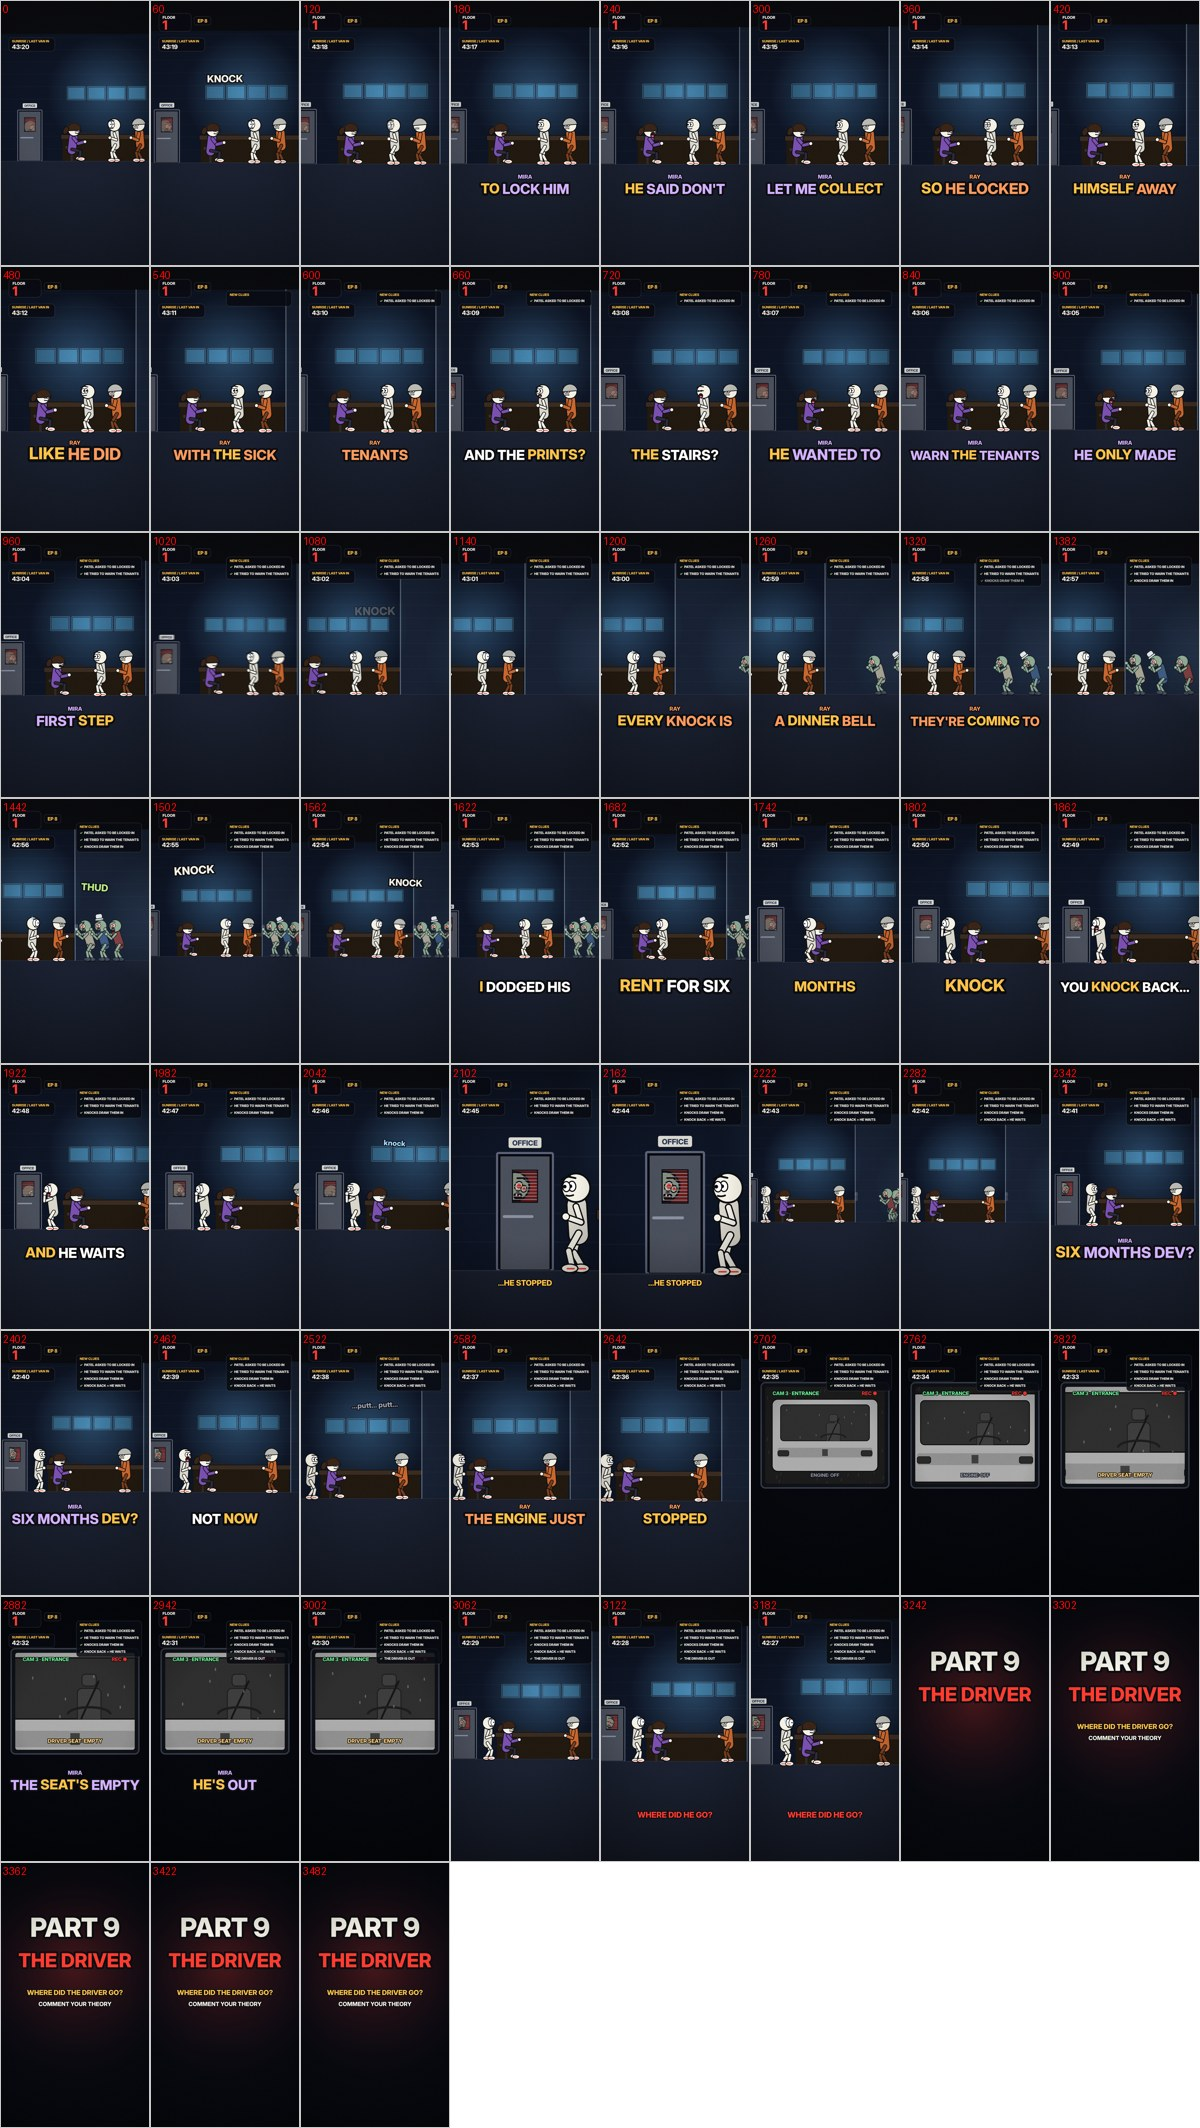
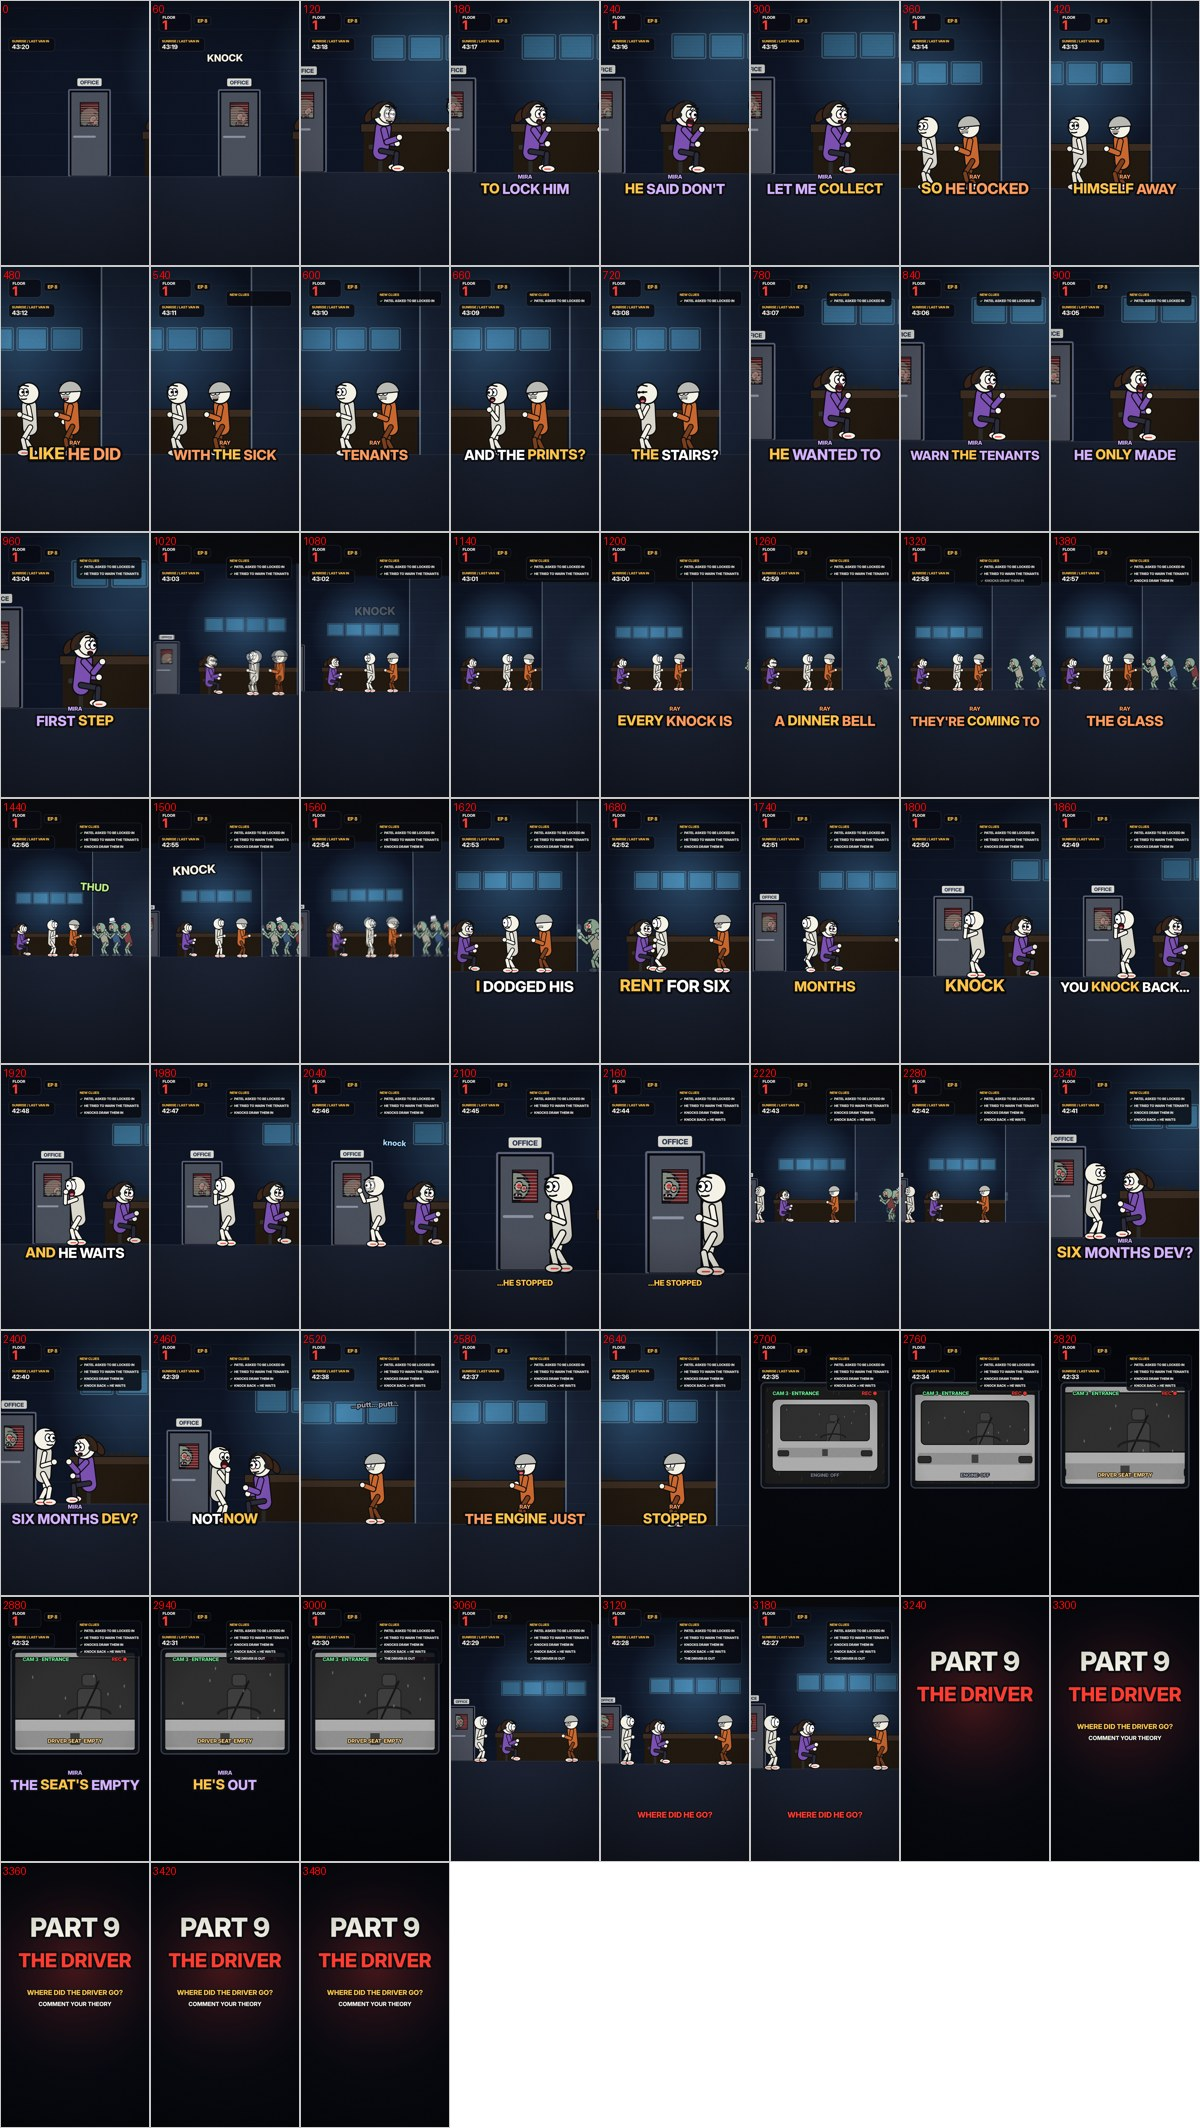
FLOOR13 Ep8 v2: Mira face redesign (eyes visible), acting layer, close-up coverage
Claude-Session: https://claude.ai/code/session_017rziWBgfccmhyzi5mSaUn8

diff --git a/motion/floor13/engine_ep8/eps8.js b/motion/floor13/engine_ep8/eps8.js
@@ -37,54 +37,86 @@ function glassDead(ctx, f, ts) {
   });
   if (ts > EVS('th1')) for (const [y, a] of [[-210, .22], [-176, .18]]) blob(ctx, 338, y, 12, 18, 'rgba(220,235,255,.9)', 0, a * (1 - clamp((ts - EVS('leave') - 3) / 2)));   // hand smudges on the glass
 }
-// ----------------------------------------------------------------------------------------------- the cast in the booth (Dev can move)
-function cast8(ctx, f, ts, o = {}) {
-  mira(ctx, -220, -4, f, { s: 1, typing: false, look: o.mlook || [.9, 0], dir: o.mdir || 1, mouth: lineTalk(f, MIRA8), brow: o.mbrow == null ? -.3 : o.mbrow });
-  const D = o.D || { x: 60, dir: -1, moving: false };
-  const face = devFace(f, { wide: !!o.wide, eyes: o.wide ? 1.3 : 1.05, brow: o.dbrow == null ? -.7 : o.dbrow, look: o.dlook || [.9, 0], mouth: devTalk(f), sweat: !!o.sweat });
-  const knock = DK8.some(k => ts >= EVS(k) && ts < EVS(k) + .12), fist = o.fist ? (knock ? [74, -214] : [52, -208]) : [36, -150];
-  const dp = D.moving ? walkPose(D.x / 110, { stride: 22, lift: 8, bob: 2, lean: .08, face, hands: { L: [20, -100], R: [36, -150] } }) : basePose(pf3(f), { lean: o.fist ? .12 : .06, face, hands: { L: [20, -100], R: fist } });
-  person(ctx, DEVH(D.x, 0, dp, { dir: D.dir, hoodie: false }), pf3(f));
-  ray(ctx, 220, 0, f, basePose(pf3(f), { lean: .08, face: rayFace8(f, o.rface || {}), hands: { L: [20, -100], R: [60, -150] } }), { dir: o.rdir || -1, aim: .25, light: false });
+// ----------------------------------------------------------------------------------------------- Mira v2: hair frames the face (eyes + brows always visible), lashes, acting
+function mira(ctx, x, y, f, o = {}) {
+  const s = o.s || 1, typing = o.typing ? Math.sin(f * .6) : 0, g = o.gesture || 0, fl = o.flinch || 0, dir = o.dir || 1;
+  const pose = { hip: [0, -70 - fl * 6], lean: (o.lean == null ? .12 : o.lean) - fl * .14 + Math.sin(f * .03) * .015, tilt: (o.tilt || 0) + g * .05 * Math.sin(f * .11), feet: { L: [40, -8], R: [52, -4] },
+    hands: o.typing ? { L: [74 + typing * 6, -122], R: [84 - typing * 6, -120] } : { L: [58, -96], R: [66 + Math.sin(f * .16) * 12 * g, -118 - g * 36] },
+    face: { look: o.look || [.9, 0], mouth: o.mouth || 0, brow: o.brow == null ? -.2 : o.brow, browUp: o.browUp || 0, eyes: o.wide ? 1.25 : 1.05, wide: !!o.wide, smile: o.smile == null ? .15 : o.smile } };
+  const r = person(ctx, { x, y, s, dir, kind: 'dev', seed: 71, hoodie: false, shirt: '#7A4FB0', pants: '#2B2B3A', pose }, pf3(f));
+  const [hx, hy] = r.head, hr = 40 * s; ctx.save(); ctx.translate(hx, hy); ctx.scale(dir, 1); ctx.rotate(pose.lean);
+  ctx.fillStyle = '#3A2418'; ctx.strokeStyle = PAL.ink; ctx.lineWidth = 4 * s; ctx.lineJoin = 'round';
+  ctx.beginPath(); ctx.ellipse(-hr - 12 * s, 8 * s, 15 * s, 28 * s, .45 + Math.sin(f * .05) * .07, 0, TAU); ctx.fill(); ctx.stroke();            // ponytail (sways)
+  ctx.beginPath(); ctx.moveTo(-hr * .62, hr * .32); ctx.arc(0, 0, hr + 7 * s, Math.PI * .86, Math.PI * 1.72);                                     // crown + back
+  ctx.lineTo(hr * .58, -hr * .84); ctx.quadraticCurveTo(hr * .3, -hr * 1.08, -hr * .1, -hr * .9); ctx.quadraticCurveTo(-hr * .5, -hr * .55, -hr * .62, hr * .32); ctx.closePath(); ctx.fill(); ctx.stroke();
+  const pf = pf3(f), bk = Math.floor(pf / 190) * 190 + 40 + hash(Math.floor(pf / 190) + 71) * 110, eo = (pf >= bk && pf < bk + 7) ? .12 : (o.wide ? 1.25 : 1.05), big = o.wide ? 1.22 : 1, ey = -hr * .12;
+  ctx.strokeStyle = PAL.ink; ctx.lineWidth = 3 * s; ctx.lineCap = 'round';
+  for (const ex of [hr * .26, hr * .66]) { const top = ey - 13.5 * big * eo * s; ctx.beginPath(); ctx.moveTo(ex + 6 * s, top + 2 * s); ctx.lineTo(ex + 13 * s, top - 5 * s); ctx.moveTo(ex + 1 * s, top); ctx.lineTo(ex + 4 * s, top - 8 * s); ctx.stroke(); }   // lashes
+  ctx.fillStyle = 'rgba(255,120,140,.35)'; ctx.beginPath(); ctx.ellipse(hr * .52, hr * .24, 9 * s, 5 * s, 0, 0, TAU); ctx.fill();                  // blush
+  dot(ctx, -hr * .58, hr * .08, 10 * s, '#222'); ctx.strokeStyle = '#222'; ctx.lineWidth = 6 * s; ctx.beginPath(); ctx.moveTo(-hr * .58, -hr * .1); ctx.quadraticCurveTo(-hr * .5, -hr * 1.25, hr * .1, -hr * 1.12); ctx.stroke();   // headset
+  ctx.lineWidth = 4 * s; ctx.beginPath(); ctx.moveTo(-hr * .5, hr * .22); ctx.quadraticCurveTo(-hr * .05, hr * .85, hr * .5, hr * .66); ctx.stroke(); dot(ctx, hr * .52, hr * .66, 5 * s, '#222');
+  ctx.restore();
 }
-const devX8 = ts => { const w = pw(ts, [[27.2, 29.6, 60, -340]]); if (ts > 38.8) w.dir = 1; return w; };
-// ----------------------------------------------------------------------------------------------- shots
-SHOT.talk8 = (ctx, lt, lf, len, t, f) => {                                          // Mira explains; Ray understands; the prints are answered
-  const ts = t / 60, cam = CAMKEYS(ts, [[0, -200, -250, 1.12, E.ioC], [2.0, -60, -250, 1.2, E.ioC], [9.8, -20, -250, 1.25, E.ioC], [12.6, -120, -250, 1.22, E.ioC], [17, -100, -250, 1.18]]);
-  ctx.save(); applyCam(ctx, { ...cam, hand: 1.3 }, t, ['k1', 'k2', 'k3'].map(k => [EVF(k), 6]));
-  boothSet(ctx, f, ts, { shake: doorShake(ts), shape: .5, gap: true });
-  const atDoor = ts < 2.0 || (ts > 6.0 && ts < 9.9);
-  cast8(ctx, f, ts, { mlook: ts < 2 ? [-.9, -.1] : [.9, 0], mbrow: .3, dlook: atDoor ? [-.9, -.1] : [.9, 0], rface: { look: atDoor ? [.9, -.1] : [.9, 0] }, wide: ts < 2 });
+// ----------------------------------------------------------------------------------------------- acting: talk gestures, knock flinches, weight shifts
+function flinch8(ts) { let v = 0; PK8.forEach((k, i) => { const a = EVS(k); if (ts >= a) v += (i < 3 ? .7 : 1) * Math.exp(-(ts - a) * 7); }); return Math.min(1, v); }
+const rayX8 = ts => 220 - 40 * sstep(ts, 23.5, 23.9);
+const devX8 = ts => { if (ts < 27.2) return { x: 60 - 40 * sstep(ts, 23.5, 23.9), dir: -1, moving: false }; const w = pw(ts, [[27.2, 29.6, 20, -385]]); if (ts > 38.8) w.dir = 1; return w; };
+function cast8(ctx, f, ts, o = {}) {
+  const fl = flinch8(ts), tD = devTalk(f), tR = lineTalk(f, RAY8);
+  mira(ctx, -220, -4, f, { s: 1, look: o.mlook || [.9, 0], dir: o.mdir || 1, mouth: lineTalk(f, MIRA8), gesture: lineTalk(f, MIRA8) > .05 ? .8 : 0, brow: o.mbrow == null ? -.3 : o.mbrow, browUp: o.mbrowUp, smile: o.msmile, wide: o.mwide, flinch: fl });
+  const D = o.D || devX8(ts);
+  const face = devFace(f, { wide: !!o.wide || fl > .3, eyes: o.wide || fl > .3 ? 1.3 : 1.05, brow: o.dbrow == null ? -.7 : o.dbrow, look: o.dlook || [.9, 0], mouth: devTalk(f), sweat: !!o.sweat });
+  const knock = DK8.some(k => ts >= EVS(k) && ts < EVS(k) + .12), talkHand = [40 + Math.sin(f * .17) * 14 * tD, -150 - 40 * tD];
+  const R = o.fist ? (knock ? [74, -214] : [52, -208]) : talkHand;
+  const dp = D.moving ? walkPose((Math.abs(D.x - 20)) / 110, { stride: 22, lift: 8, bob: 2, lean: .08, face, hands: { L: [20, -100], R: [36, -150] } })
+    : basePose(pf3(f), { lean: (o.fist ? .12 : .06) - .12 * fl + Math.sin(f * .025) * .02, face, hands: { L: [20, -100], R } });
+  if (!D.moving) dp.hip = [dp.hip[0], dp.hip[1] - 8 * fl];
+  person(ctx, DEVH(D.x, 0, dp, { dir: D.dir, hoodie: false }), pf3(f));
+  const rp = basePose(pf3(f + 40), { lean: .08 - .12 * fl + Math.sin(f * .021 + 1) * .02, face: rayFace8(f, { ...(o.rface || {}), ...(fl > .3 ? { brow: 1, eyes: 1.2 } : {}) }), hands: { L: [20 + 30 * tR + Math.sin(f * .15) * 10 * tR, -100 - 60 * tR], R: [60, -150] } });
+  rp.hip = [rp.hip[0], rp.hip[1] - 6 * fl];
+  ray(ctx, o.rx == null ? rayX8(ts) : o.rx, 0, f, rp, { dir: o.rdir || -1, aim: .25, light: false });
+}
+// ----------------------------------------------------------------------------------------------- shots (cuts are picked by frame number so motion blur never mixes two set-ups)
+SHOT.talk8 = (ctx, lt, lf, len, t, f) => {                                          // knocks -> Mira explains (close) -> Ray (close) -> Dev -> Mira
+  const ts = t / 60, FR = f / 60;
+  const cam = FR < 2.0 ? { x: -545, y: -205, z: 1.9 } : FR < 6.0 ? { x: -240, y: -175, z: lerp(2.05, 2.15, (ts - 2) / 4) } : FR < 10.0 ? { x: 230, y: -250, z: 1.9 } : FR < 12.7 ? { x: 160, y: -250, z: 1.9 } : { x: -240, y: -175, z: lerp(2.1, 2.25, (ts - 12.7) / 4.3) };
+  ctx.save(); applyCam(ctx, { ...cam, hand: 1.1 }, t, ['k1', 'k2', 'k3'].map(k => [EVF(k), 7]));
+  boothSet(ctx, f, ts, { shake: doorShake(ts), shape: .55, gap: true });
+  const atDoor = ts < 2.0 || (ts > 6.6 && ts < 9.6);
+  cast8(ctx, f, ts, { mlook: ts < 2 ? [-.9, -.1] : [.9, -.05], mbrow: ts < 2 ? .4 : -.4, mwide: ts < 2, dlook: atDoor ? [-.9, -.1] : [.9, 0], rdir: -1, rface: { look: atDoor ? [.9, -.15] : [.9, 0], brow: atDoor ? .8 : .4 } });
   ctx.restore(); vig(ctx, .45);
-  ['k1', 'k2', 'k3'].forEach((k, i) => sfxPop(ctx, 'KNOCK', W / 2 - 220 + i * 220, 560 + i * 40, f, EVF(k), PAL.chalk, 70, 30, -.06 + i * .05));
+  ['k1', 'k2', 'k3'].forEach((k, i) => sfxPop(ctx, 'KNOCK', W / 2 - 220 + i * 220, 450, f, EVF(k), PAL.chalk, 70, 30, -.06 + i * .05));
 };
-SHOT.glass = (ctx, lt, lf, len, t, f) => {                                          // louder knocks; the dead come to the glass
+SHOT.glass = (ctx, lt, lf, len, t, f) => {                                          // louder knocks; the dead come to the glass; everyone backs off
   const ts = t / 60, cam = CAMKEYS(ts, [[17, -120, -250, 1.15, E.ioC], [18.8, 200, -270, .95, E.ioC], [24.4, 200, -270, .95, E.ioC], [25.0, 60, -260, 1.0, E.ioC], [26.8, 60, -260, 1.02]]);
   ctx.save(); applyCam(ctx, { ...cam, hand: 1.3 }, t, ['k4', 'k5', 'k6', 'th1', 'th2', 'th3', 'k7', 'k8', 'k9'].map(k => [EVF(k), k[0] === 't' ? 5 : 9]));
   boothSet(ctx, f, ts, { shake: doorShake(ts), shape: .6, gap: true, behind: c => glassDead(c, f, ts) });
-  cast8(ctx, f, ts, { D: { x: 60, dir: ts > 18.6 ? 1 : -1, moving: false }, wide: true, sweat: true, mlook: [.9, 0], mbrow: .6, dlook: ts < 18.6 ? [-.9, 0] : [.9, 0], rface: { look: [.9, 0], brow: .9 }, rdir: ts > 18.6 ? 1 : -1 });
+  const D = devX8(ts); D.dir = ts > 18.6 ? 1 : -1;
+  cast8(ctx, f, ts, { D, wide: true, sweat: true, mlook: [.9, 0], mbrow: .6, mwide: ts > 19, dlook: ts < 18.6 ? [-.9, 0] : [.9, 0], rface: { look: [.9, 0], brow: .9 }, rdir: ts > 18.6 ? 1 : -1 });
   ctx.restore(); vig(ctx, .5);
   ['k4', 'k5', 'k6', 'k7', 'k8', 'k9'].forEach((k, i) => sfxPop(ctx, 'KNOCK', W / 2 - 220 + (i % 3) * 220, 560 + (i % 3) * 40, f, EVF(k), PAL.chalk, 80, 30, -.06 + (i % 3) * .05));
   ['th1', 'th2', 'th3'].forEach((k, i) => sfxPop(ctx, 'THUD', W / 2 + 140, 620 + i * 60, f, EVF(k), '#B8E986', 70, 26, .06));
 };
 SHOT.knockback = (ctx, lt, lf, len, t, f) => {                                      // Dev answers the knock - and Patel waits
   const ts = t / 60, FR = f / 60, D = devX8(ts);
-  let cam = CAMKEYS(ts, [[26.8, 60, -260, 1.02, E.ioC], [27.6, 0, -255, 1.1, E.ioC], [29.8, -200, -250, 1.22, E.ioC], [34.2, -230, -250, 1.25]]);
-  if (FR >= EVS('wait') && FR < 36.4) cam = { x: -490, y: -235, z: lerp(2.5, 2.7, clamp((ts - 34.2) / 2.2)) };
-  else if (FR >= 36.4) cam = { x: 100, y: -270, z: .95 };
+  let cam;
+  if (FR < 29.8) cam = { x: clamp(D.x + 60, -300, -60), y: -245, z: 1.5 };
+  else if (FR < EVS('wait')) cam = { x: -400, y: -230, z: lerp(1.75, 1.85, (ts - 29.8) / 4.4) };
+  else if (FR < 36.4) cam = { x: -490, y: -235, z: lerp(2.5, 2.7, clamp((ts - 34.2) / 2.2)) };
+  else cam = { x: 50, y: -270, z: .95 };
   ctx.save(); applyCam(ctx, { ...cam, hand: 1.2 }, t, []);
   boothSet(ctx, f, ts, { shake: doorShake(ts), shape: ts > EVS('wait') ? 1 : .6, gap: true, still: ts > EVS('b3') + .2, behind: c => glassDead(c, f, ts) });
-  const ready = ts > 29.6;
-  cast8(ctx, f, ts, { D, fist: ready && ts < 34.6, wide: ts < 34, mlook: ts > 27.4 ? [-.9, 0] : [.9, 0], mbrow: .5, dlook: [.9, -.05], rface: { look: [.9, 0] } });
+  cast8(ctx, f, ts, { D, fist: ts > 29.6 && ts < 34.6, wide: ts < 34, mlook: ts > 27.4 ? [-.9, -.05] : [.9, 0], mbrow: .5, dlook: [.9, -.05], rface: { look: [.9, 0] } });
   ctx.restore(); vig(ctx, .5 + .1 * (FR >= EVS('wait') && FR < 36.4));
   DK8.forEach((k, i) => sfxPop(ctx, 'knock', W / 2 - 140 + i * 140, 600, f, EVF(k), '#9FD8FF', 54, 24, .05));
   if (FR >= EVS('wait') + .6 && FR < 36.4) marker(ctx, '…HE STOPPED', W / 2, 1600, 56, PAL.amber, { stroke: 12, s: outB((ts - EVS('wait') - .6) / .25, 1.5) });
 };
-SHOT.engine = (ctx, lt, lf, len, t, f) => {                                         // a small human beat; then the engine dies
-  const ts = t / 60, D = devX8(ts), cam = CAMKEYS(ts, [[38.8, -120, -250, 1.12, E.ioC], [41.6, -80, -250, 1.15, E.ioC], [42.2, 60, -280, 1.2, E.ioC], [44.6, 60, -280, 1.25]]);
-  ctx.save(); applyCam(ctx, { ...cam, hand: 1.2 }, t, []);
+SHOT.engine = (ctx, lt, lf, len, t, f) => {                                         // "Six months, Dev?" (Mira close) / "Not now." (Dev close) / the engine dies (Ray close)
+  const ts = t / 60, FR = f / 60;
+  const cam = FR < 40.4 ? { x: -270, y: -185, z: 2.0 } : FR < 41.6 ? { x: -360, y: -250, z: 2.0 } : { x: 170, y: -280, z: lerp(1.8, 1.9, (ts - 41.6) / 3) };
+  ctx.save(); applyCam(ctx, { ...cam, hand: 1.1 }, t, []);
   boothSet(ctx, f, ts, { shape: 1, gap: true, still: true });
-  cast8(ctx, f, ts, { D, mlook: [-.9, -.05], mbrow: .7, dbrow: -.2, dlook: [.9, 0], rdir: ts > 41.6 ? -1 : -1, rface: { look: ts > 41.4 ? [-.4, -.8] : [.9, 0], brow: ts > 41.4 ? 1 : .5 } });
+  cast8(ctx, f, ts, { mdir: -1, mlook: [.9, -.05], mbrow: -.1, mbrowUp: ts < 40.4 ? 6 : 0, msmile: ts < 40.4 ? .6 : .2, dbrow: ts > 40.3 ? .6 : -.2, dlook: ts > 40.3 ? [.3, .6] : [.9, 0], rdir: -1, rface: { look: ts > 41.4 ? [.2, -.9] : [.9, 0], brow: ts > 41.4 ? 1 : .5, eyes: ts > 41.9 ? 1.2 : .8 } });
   ctx.restore(); vig(ctx, .45);
   sfxPop(ctx, '…putt… putt…', W / 2, 560, f, EVF('stall'), '#9AA0B0', 54, 50, -.04);
 };
@@ -111,10 +143,10 @@ function vanCam8(ctx, f, ts) {                                                  
 }
 SHOT.cctv8 = (ctx, lt, lf, len, t, f) => vanCam8(ctx, f, t / 60);
 SHOT.react = (ctx, lt, lf, len, t, f) => {
-  const ts = t / 60, D = devX8(ts), cam = { x: lerp(-100, -120, clamp((ts - 51) / 2.5)), y: -260, z: lerp(1.12, 1.3, sstep(ts, 51, 53.5)) };
+  const ts = t / 60, cam = { x: -110, y: -255, z: lerp(1.2, 1.45, sstep(ts, 51, 53.5)) };
   ctx.save(); applyCam(ctx, { ...cam, hand: 1.2 }, t, []);
   boothSet(ctx, f, ts, { shape: 1, gap: true, still: true });
-  cast8(ctx, f, ts, { D, wide: true, sweat: true, mlook: [.9, -.3], mbrow: .8, dlook: [.9, -.2], rface: { look: [-.6, -.6], brow: 1 } });
+  cast8(ctx, f, ts, { wide: true, sweat: true, mdir: 1, mlook: [.9, -.3], mbrow: .8, mwide: true, dlook: [.9, -.2], rface: { look: [-.6, -.6], brow: 1 } });
   ctx.restore(); vig(ctx, .6);
   if (ts > 51.4) marker(ctx, 'WHERE DID HE GO?', W / 2, 1600, 58, PAL.red, { stroke: 12, s: outB((ts - 51.4) / .25, 1.5) });
 };

diff --git a/motion/floor13/DIRECTION.md b/motion/floor13/DIRECTION.md
@@ -61,3 +61,4 @@ STAGING RULES (after Ep5 fix): characters must stand on a visible surface every 
 - Ep8 DONE "The Knock" (58.5s): Patel asked Mira to lock him in ("don't let me collect") - he did to himself what he did to the sick tenants; the stairwell prints = Patel trying to warn the tenants, he only made it to the first step (answers "who carried the clipboard in"). His knocking pulls the dead to the booth glass (sound rule). Dev, who dodged his rent for six months, knocks back three times -> Patel stops and waits (habit); the dead drift back. Beat of humour ("Six months, Dev?" / "Not now."). The van's engine dies (fuel) and CAM 3 shows the driver's seat EMPTY, belt hanging. End: "PART 9 / THE DRIVER".
 - Ep9 PLAN "The Driver": no engine = no beacon; the dead under the awning start to spread. Where is the driver? Grounded answer to plant: he was not dead, he was hiding very still (a survivor who learned they track movement + sound) - he's the one who's been "taking people" to safety, or he's bitten. Ray recognises the van's company logo. Keep the sunrise clock.
 - DISK: delete old render/framesN after encoding (each episode ~12 GB of PNGs).
+- Ep8 v2 (animation pass): Mira redrawn - hair is a crown + fringe + ponytail framing the face (the old solid half-disc hid her eyes), lashes, blush, headset earpiece behind the face. Acting layer for every booth shot: talk-driven hand gestures (Dev R hand, Ray free L hand, Mira R hand), knock flinches (hop + lean back + wide eyes), idle weight shifts, Mira swivels toward whoever she talks to. Coverage: dialogue is cut as close singles/two-shots (z 1.8-2.2) chosen by frame number; wides only for geography (dead at the glass, leaving). Use this cast/acting pattern from now on.
